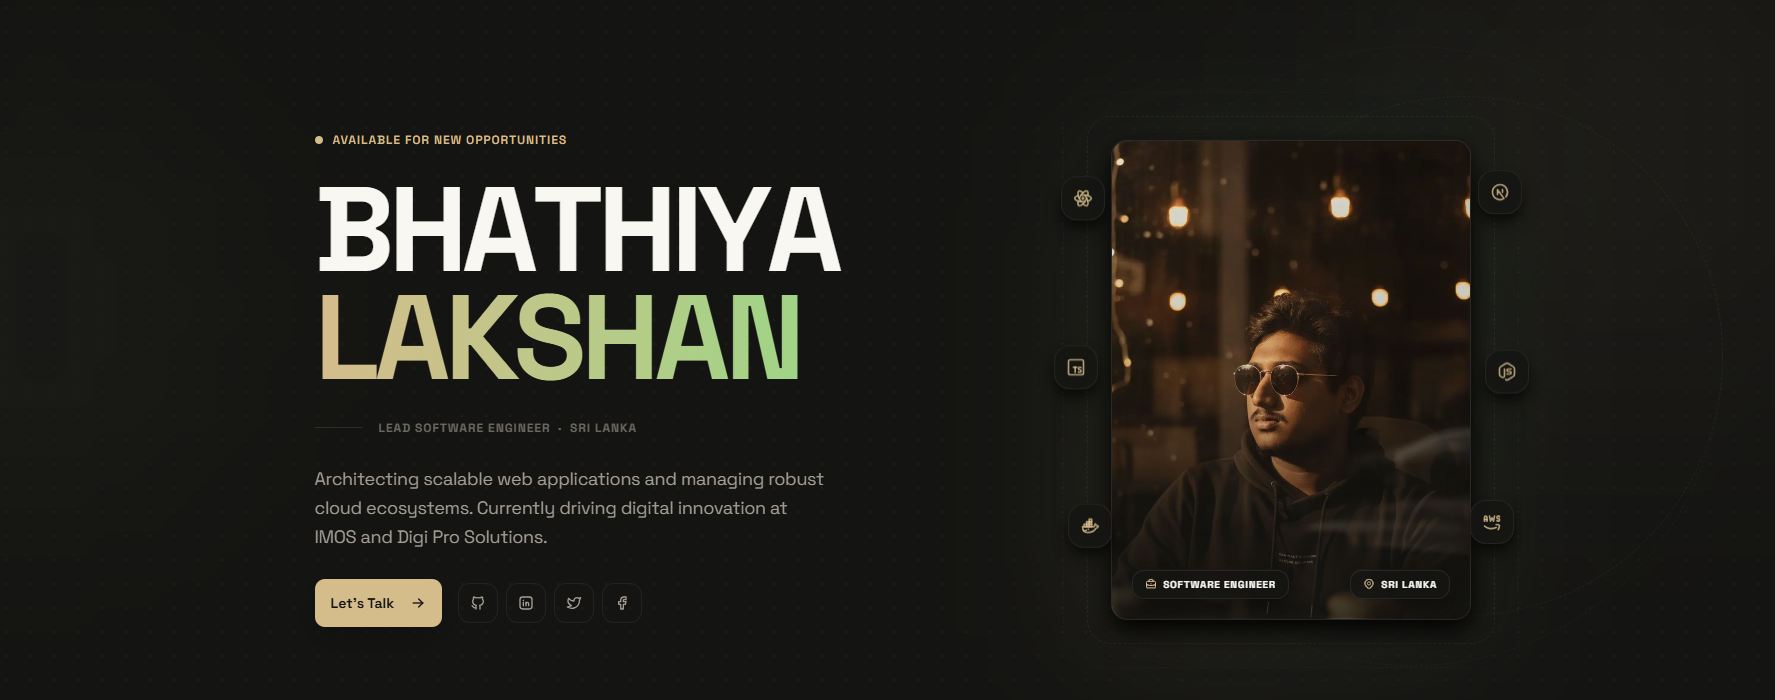
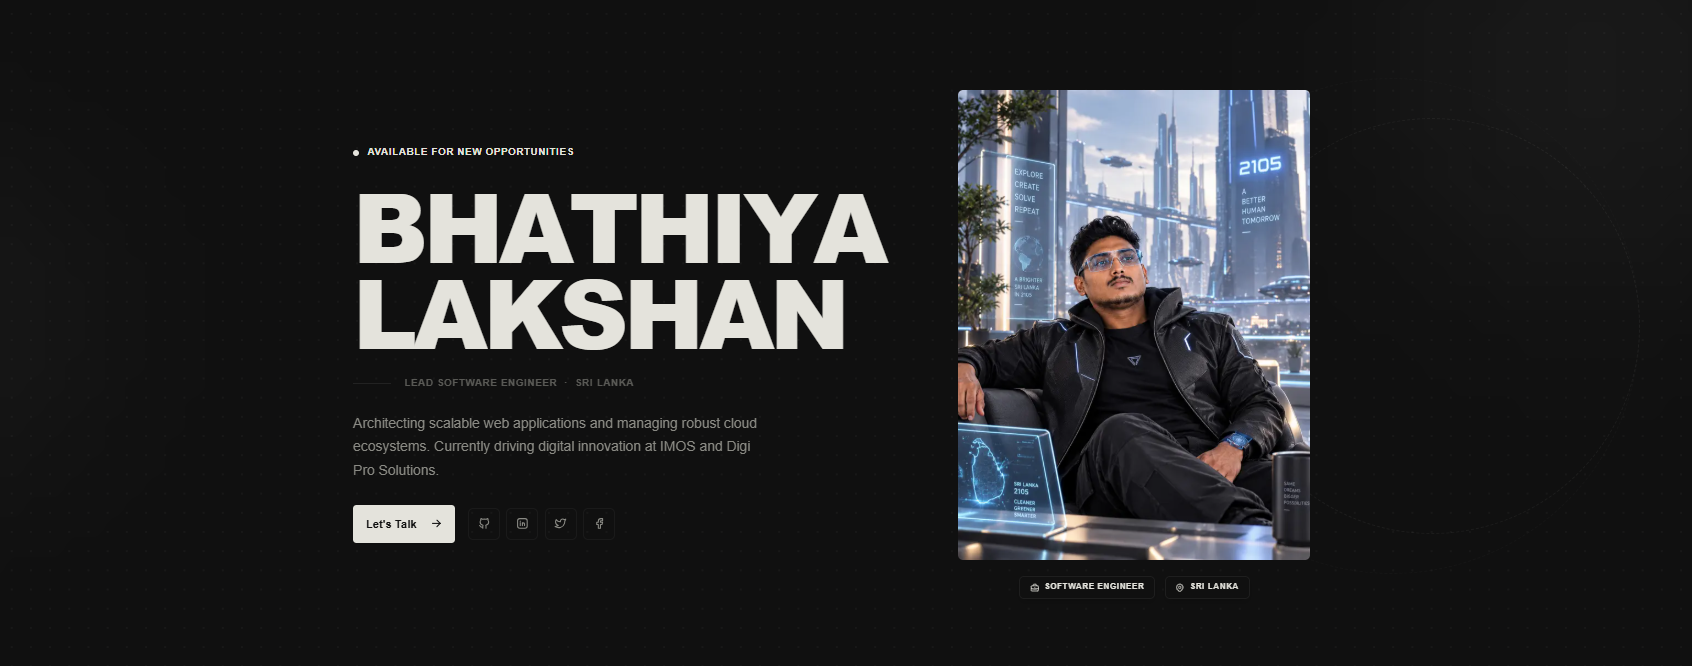
feat: add projects page and project dataset

diff --git a/app/projects/page.tsx b/app/projects/page.tsx
@@ -14,6 +14,14 @@ export const metadata: Metadata = {
       "A complete showcase of software projects by Bhathiya Lakshan - full-stack web apps, LMS platforms, dashboards, and open-source templates.",
     url: "https://bhathiya.dev/projects",
     type: "website",
+    images: [
+      {
+        url: "/cover.png",
+        width: 1200,
+        height: 630,
+        alt: "Bhathiya Lakshan - Projects",
+      },
+    ],
   },
 };
 

diff --git a/data/projects.ts b/data/projects.ts
@@ -68,7 +68,7 @@ const projectsData: Project[] = [
   },
   {
     id: 14,
-    slug: "UtilBee",
+    slug: "utilbee",
     title: "UtilBee",
     description:
       "Simple, fast, and free tools for your everyday tasks right in your browser. Features a collection of useful utilities crafted for daily developer and general workflows.",
